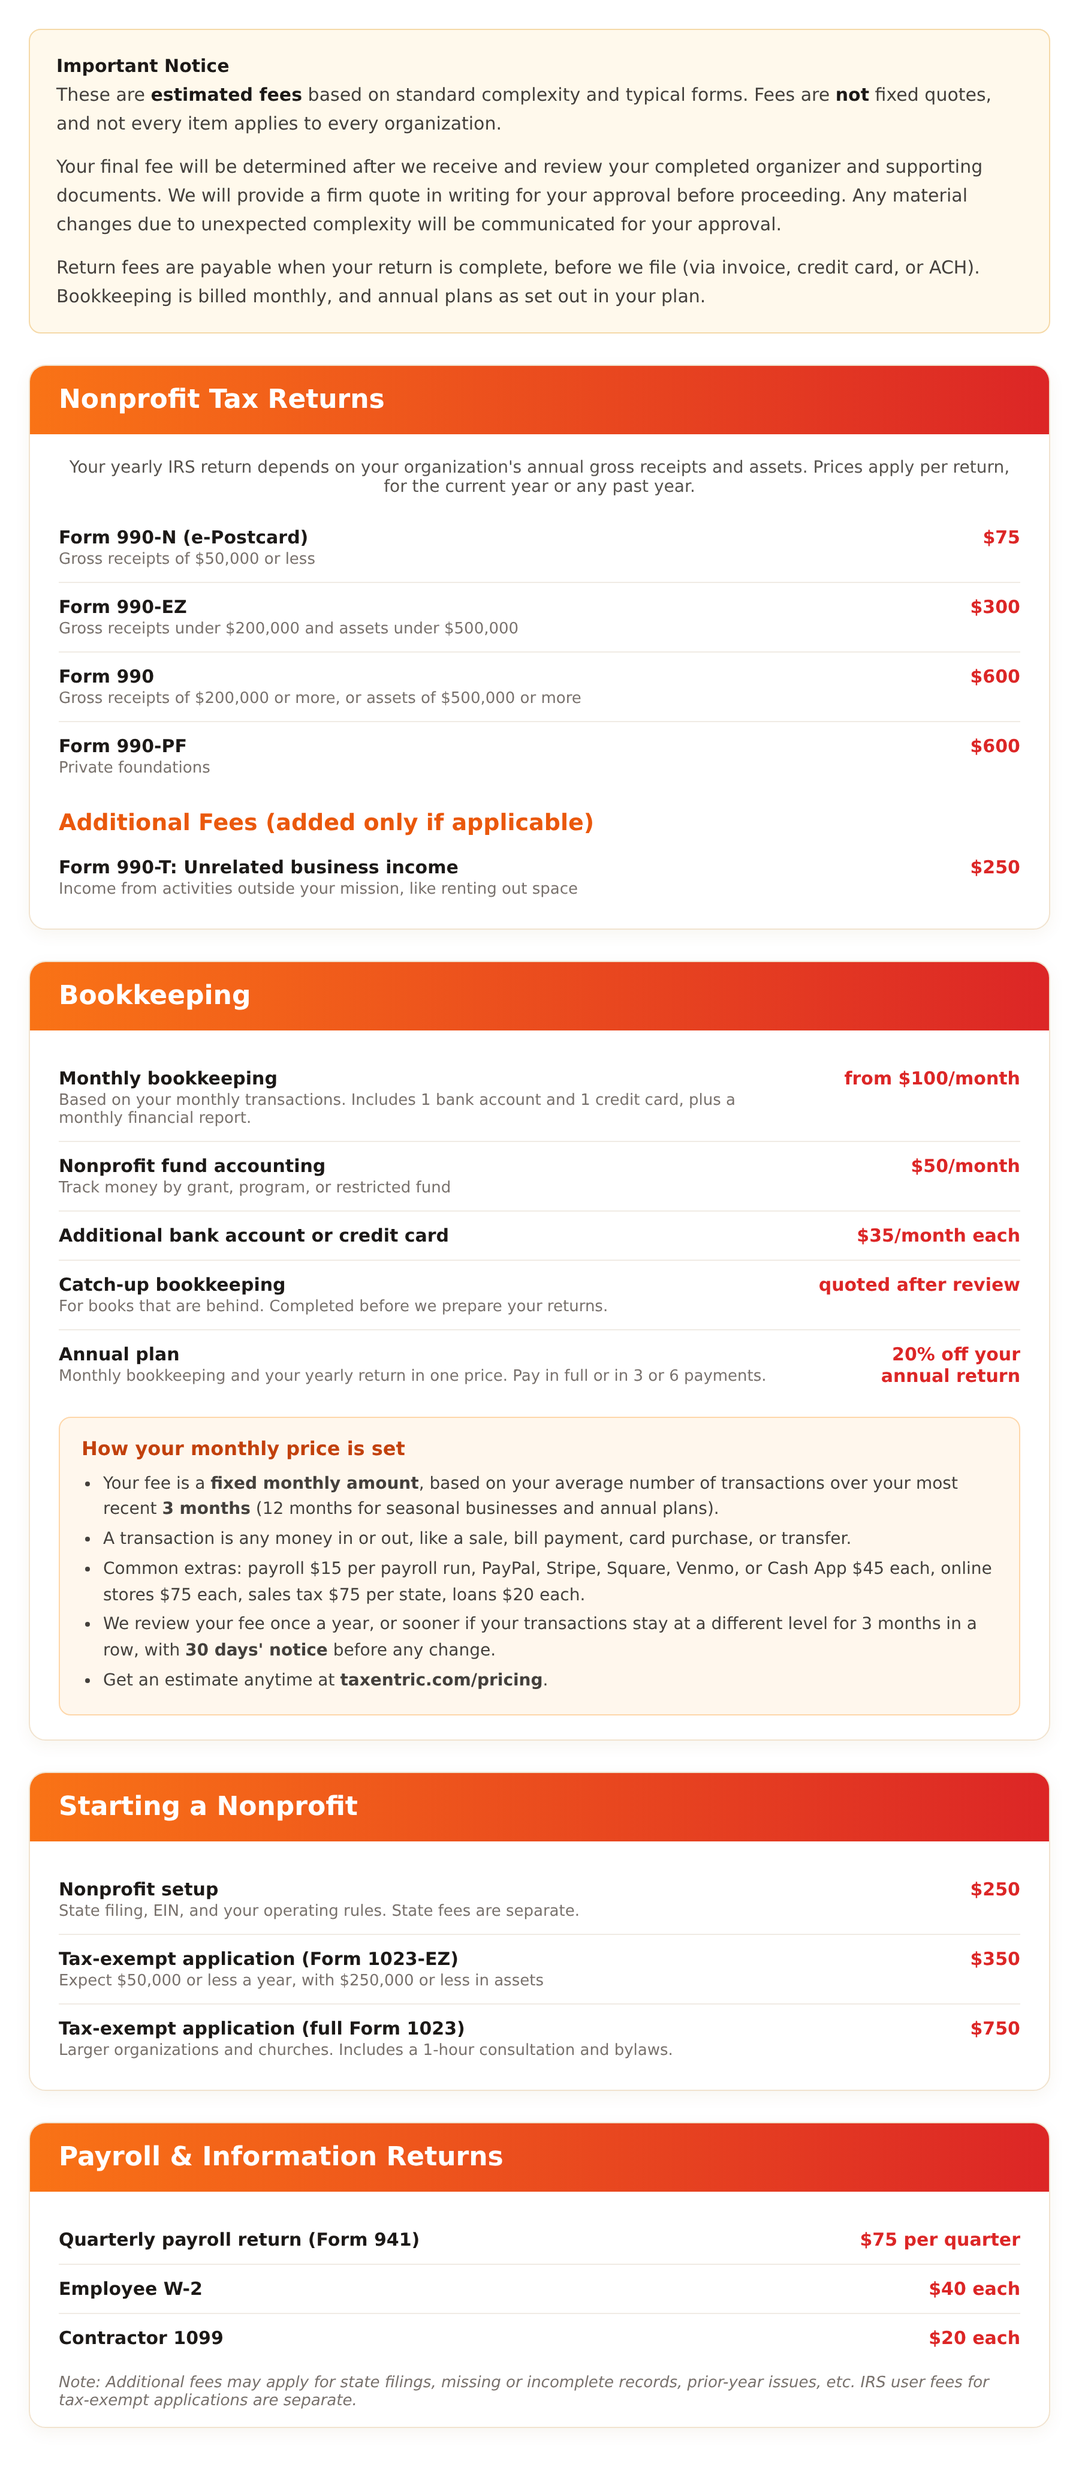
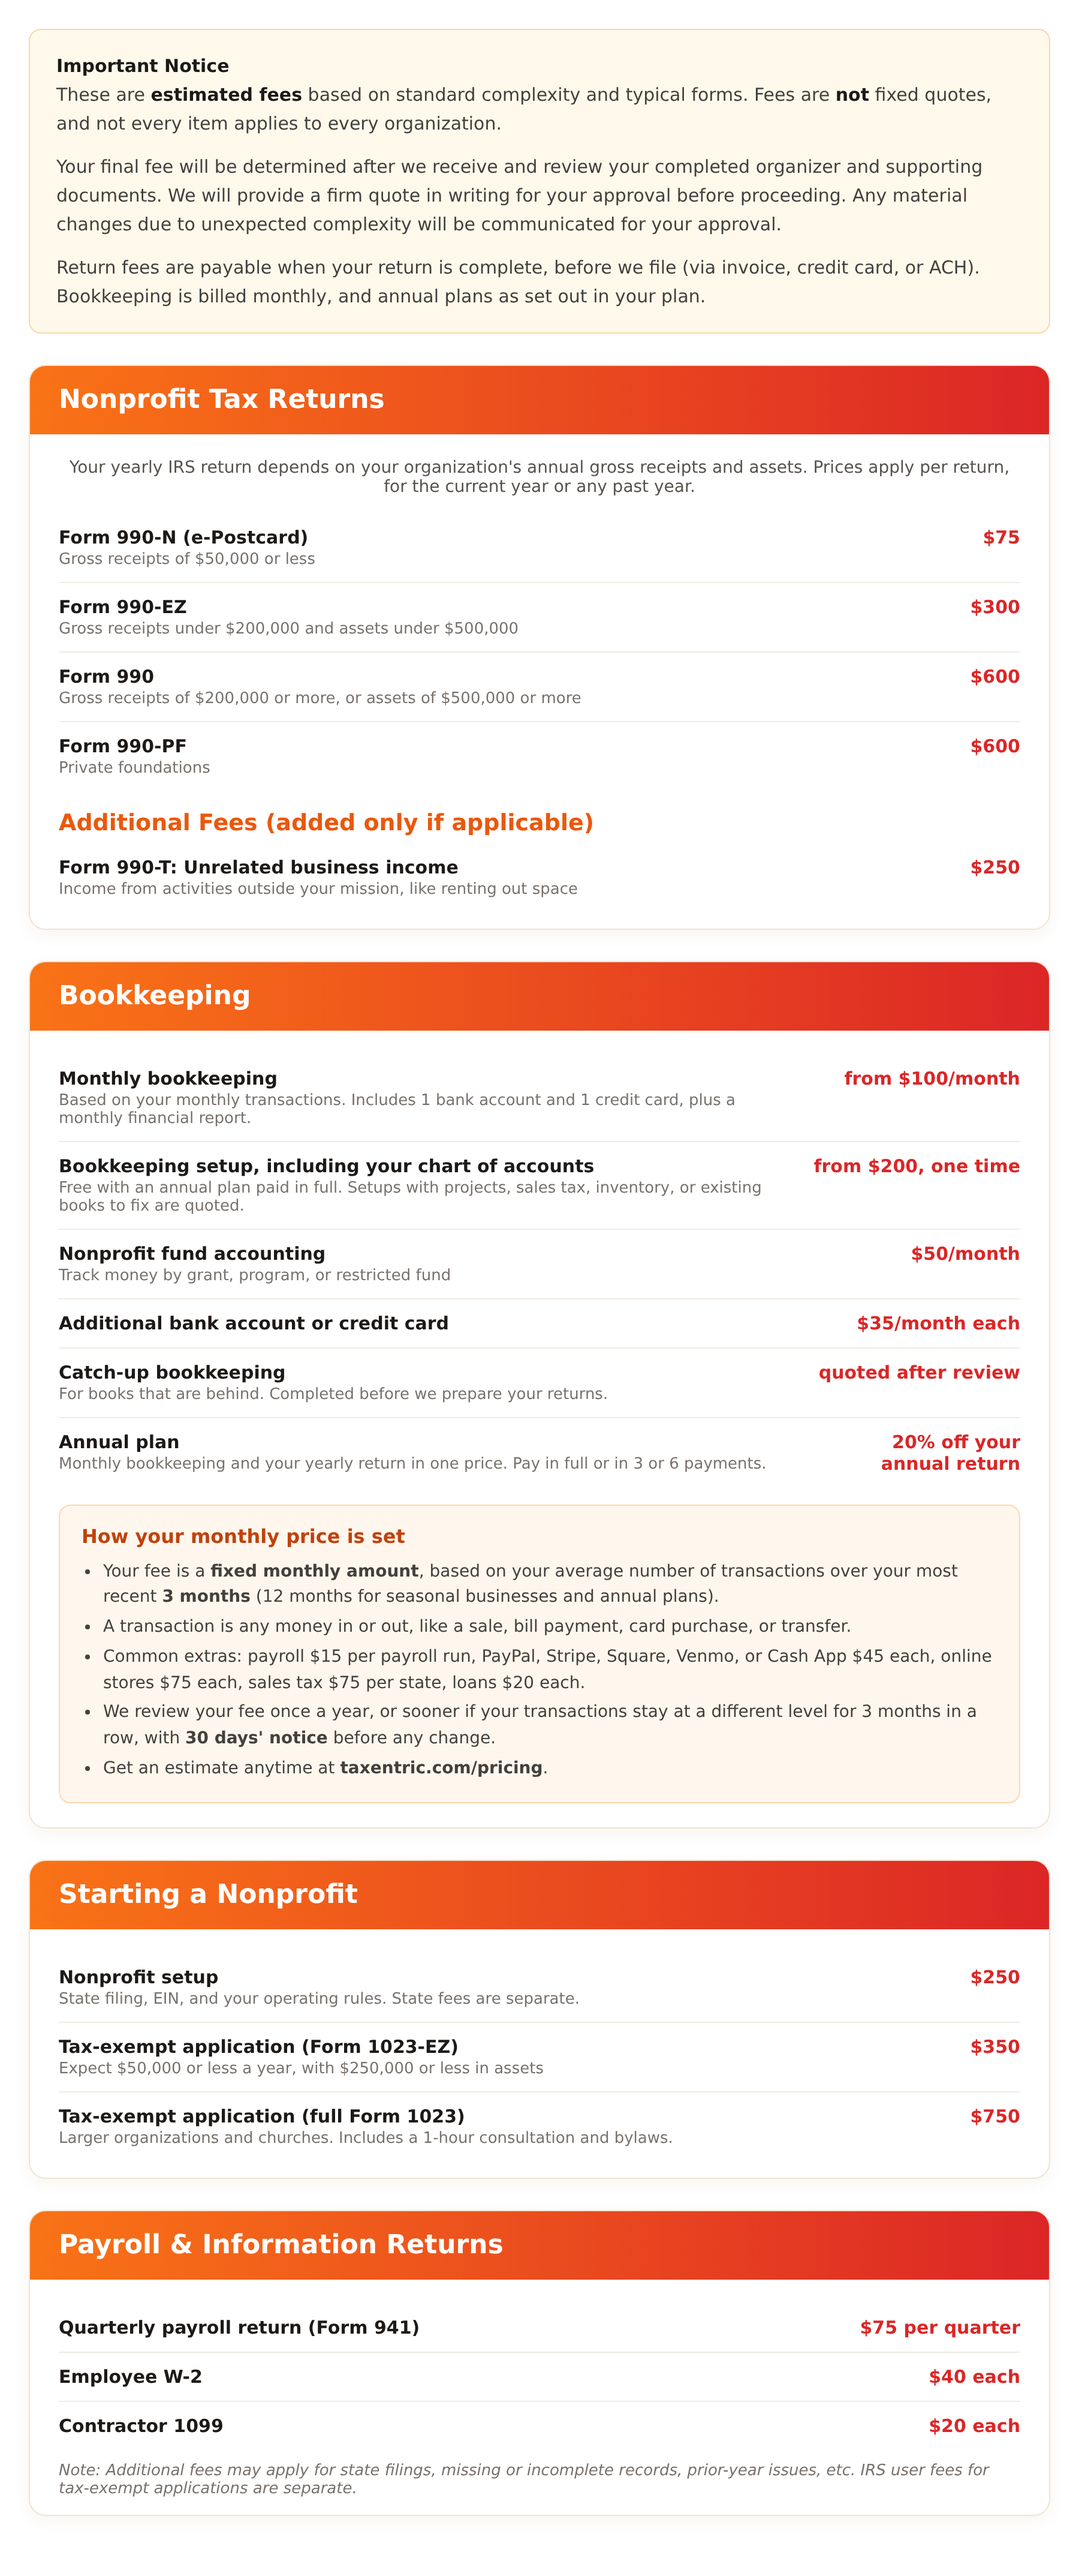
Bookkeeping setup from $200 including chart of accounts
Claude-Session: https://claude.ai/code/session_01BwrQbMS2h8vHsdADVFxRtF

Changed region(s): [[0.0311, 0.0, 0.9956, 0.9641]]

diff --git a/pricing/estimator.html b/pricing/estimator.html
@@ -256,7 +256,7 @@ function lines(){var L=[];flow().forEach(function(k){var s=step(k);if(!s||!s.g)r
  if(s.ty==="one"&&v)s.o.forEach(function(o){if(o.id===v&&(o.p||o.quote))L.push({g:s.g,n:o.n,a:o.p||0,qt:o.quote})});
  if(s.ty==="yn"&&v>0&&s.n)L.push({g:s.g,n:s.n+(v>1?" (x"+v+")":""),a:(s.p||0)*v,r:s.r,qt:s.quote});
  if(s.ty==="ac"&&v&&v.k){var it=s.it,c=v.c||1;L.push({g:s.g,n:it.n+(v.k==="ad"?": add":": correct")+(c>1?" (x"+c+")":""),a:(v.k==="ad"?it.p:it.p/2)*c})}
- if(s.ty==="tx"&&v>0){var f=bkFee(v),nm="Bookkeeping ("+v.toLocaleString()+" transactions/month)";L.push(f<0?{g:s.g,n:nm,a:0,qt:1}:{g:s.g,n:nm,a:f,r:"mo"})}
+ if(s.ty==="tx"&&v>0){var f=bkFee(v),nm="Bookkeeping ("+v.toLocaleString()+" transactions/month)";L.push(f<0?{g:s.g,n:nm,a:0,qt:1}:{g:s.g,n:nm,a:f,r:"mo"});L.push({g:s.g,n:"Bookkeeping setup, including your chart of accounts (one time, starting price)",a:200})}
  if(s.ty==="ad"&&A.kb>0&&v)ADD.forEach(function(it){var c=v[it.id];if(c===undefined)return;
   if(it.k==="q")L.push({g:s.g,n:it.t,a:0,qt:1});
   if(it.k==="pj")L.push({g:s.g,n:it.t+" ("+c+" project"+(c>1?"s":"")+")",a:it.p+Math.max(0,c-2)*10,r:"mo"});
@@ -286,7 +286,7 @@ function render(){var f=flow(),i=f.indexOf(cur);if(i<0){cur=f[f.length-1];i=f.le
   if(s.q&&v>0)h+='<div class="howmany"><b>'+s.q+'</b>'+counter(v,'data-cnt="1"')+'</div>';canNext=v!==undefined}
  if(s.ty==="ac"){var it=s.it,av=v||{};h+='<div class="list">'+choice("r",av.k==="ad",'It was left off the return',"",'<span class="pr">'+money(it.p)+'</span>','data-ac="ad"')+choice("r",av.k==="co",'It was on the return, but it was wrong',"",'<span class="pr">'+money(it.p/2)+'</span>','data-ac="co"')+'</div>';
   if(it.q&&av.k)h+='<div class="howmany"><b>'+it.q+'</b>'+counter(av.c||1,'data-acc="1"')+'</div>';canNext=!!av.k}
- if(s.ty==="tx"){var fe=bkFee(v||0);h+='<input type="number" class="num fr" id="txin" min="0" step="1" inputmode="numeric" placeholder="e.g. 100" value="'+(v||"")+'"><div class="bkf"><span style="font-weight:700;font-size:.9rem">Your monthly price</span><b id="txfee">'+(fe<0?"Custom price":money(fe)+"/mo")+'</b></div><p class="ts" id="txnote">'+(fe<0?"Over 2,000 transactions a month is priced individually.":"Covers 1 bank account and 1 business credit card. Your price is a fixed monthly fee based on your average transactions over your most recent 3 months (12 for seasonal businesses), reviewed once a year.")+'</p><button type="button" class="lnk fr" id="tiersBtn">'+(tierOpen?"Hide pricing details":"See how pricing works")+'</button>';
+ if(s.ty==="tx"){var fe=bkFee(v||0);h+='<input type="number" class="num fr" id="txin" min="0" step="1" inputmode="numeric" placeholder="e.g. 100" value="'+(v||"")+'"><div class="bkf"><span style="font-weight:700;font-size:.9rem">Your monthly price</span><b id="txfee">'+(fe<0?"Custom price":money(fe)+"/mo")+'</b></div><p class="ts" id="txnote">'+(fe<0?"Over 2,000 transactions a month is priced individually.":"Covers 1 bank account and 1 business credit card. Your price is a fixed monthly fee based on your average transactions over your most recent 3 months (12 for seasonal businesses), reviewed once a year. Plus a one-time setup fee, starting at $200, that includes your chart of accounts.")+'</p><button type="button" class="lnk fr" id="tiersBtn">'+(tierOpen?"Hide pricing details":"See how pricing works")+'</button>';
   if(tierOpen){h+='<div class="tiers"><span>The cost per transaction goes down as volume goes up. Example: 120 transactions = $350 + (20 × $2.00) = $390/mo.</span>';TIERS.forEach(function(t,j){var lo=j?TIERS[j-1][0]+1:1;h+='<div><span>'+lo+" to "+t[0].toLocaleString()+'</span><span>'+money(t[1])+(t[2]?" + "+money(t[2])+" each over "+t[3]:" flat")+'</span></div>'});h+='<div><span>Over 2,000</span><span>Custom price</span></div></div>'}
   canNext=v>0}
  if(cur==="kb")h=h.replace('</div>','</div><div class="basic"><b>Basic includes:</b><ul><li>1 business bank account and 1 business credit card, connected to bank feeds</li><li>Sorting every transaction and matching your books to your bank</li><li>A monthly profit and loss report</li><li>Books that are up to date</li></ul></div>');
@@ -346,7 +346,7 @@ stepEl.addEventListener("click",function(e){var b=e.target.closest("button");if(
  if(d.hrs){A[cur]=Math.max(0,Math.min(40,(A[cur]||0)+(+d.d)*.5));return render()}});
 stepEl.addEventListener("input",function(e){if(e.target.id!=="txin")return;var v=Math.max(0,Math.round(+e.target.value||0));A[cur]=v;var fe=bkFee(v);
  document.getElementById("txfee").textContent=fe<0?"Custom price":money(fe)+"/mo";
- document.getElementById("txnote").textContent=fe<0?"Over 2,000 transactions a month is priced individually.":"Covers 1 bank account and 1 business credit card. Your price is a fixed monthly fee based on your average transactions over your most recent 3 months (12 for seasonal businesses), reviewed once a year.";
+ document.getElementById("txnote").textContent=fe<0?"Over 2,000 transactions a month is priced individually.":"Covers 1 bank account and 1 business credit card. Your price is a fixed monthly fee based on your average transactions over your most recent 3 months (12 for seasonal businesses), reviewed once a year. Plus a one-time setup fee, starting at $200, that includes your chart of accounts.";
  document.getElementById("next").disabled=!(v>0);
  var r=stepEl.querySelector(".run b");if(r)r.textContent=totalText(totals(lines()))});
 

diff --git a/pricing/plans.html b/pricing/plans.html
@@ -295,7 +295,7 @@ can get your price right. Enter your email and we'll follow up with a plan built
 <div class="info-note">
 Growth Plans include the same benefits: bookkeeping, tax preparation with 20% off your
 business tax return, a tax extension if you need one, and 1 year of IRS Document Monitoring. Pay for the year
-in full at signing and you also get bookkeeping account setup and a chart of accounts set up for your business at no charge, plus 50% off help starting a business if you need it.
+in full at signing and you also get bookkeeping setup, including your chart of accounts, at no charge, plus 50% off help starting a business if you need it.
 </div>
 <div class="mt-4">
 <label for="prospect-email-growth" class="block text-sm font-bold mb-1">Your email</label>
@@ -663,7 +663,7 @@ return items;
 }
 /* Bonuses: only when you pay for the year in full at signing */
 function getBonusItems(){
-var items = [{ label: 'Bookkeeping account setup', value: 150, bonusPrice: 0, optional: true }, { label: 'Chart of accounts, set up for your business', value: 200, bonusPrice: 0, optional: true }];
+var items = [{ label: 'Bookkeeping setup, including your chart of accounts', value: 200, bonusPrice: 0, optional: true }];
 var opt = getSboOption();
 if(opt && (opt.id === 'scorp' || opt.id === 'ccorp')){
 items.push({ label: 'Quarterly payroll tax returns for the owner (Form 941), 4 per year', value: 300, bonusPrice: 0, optional: true });
